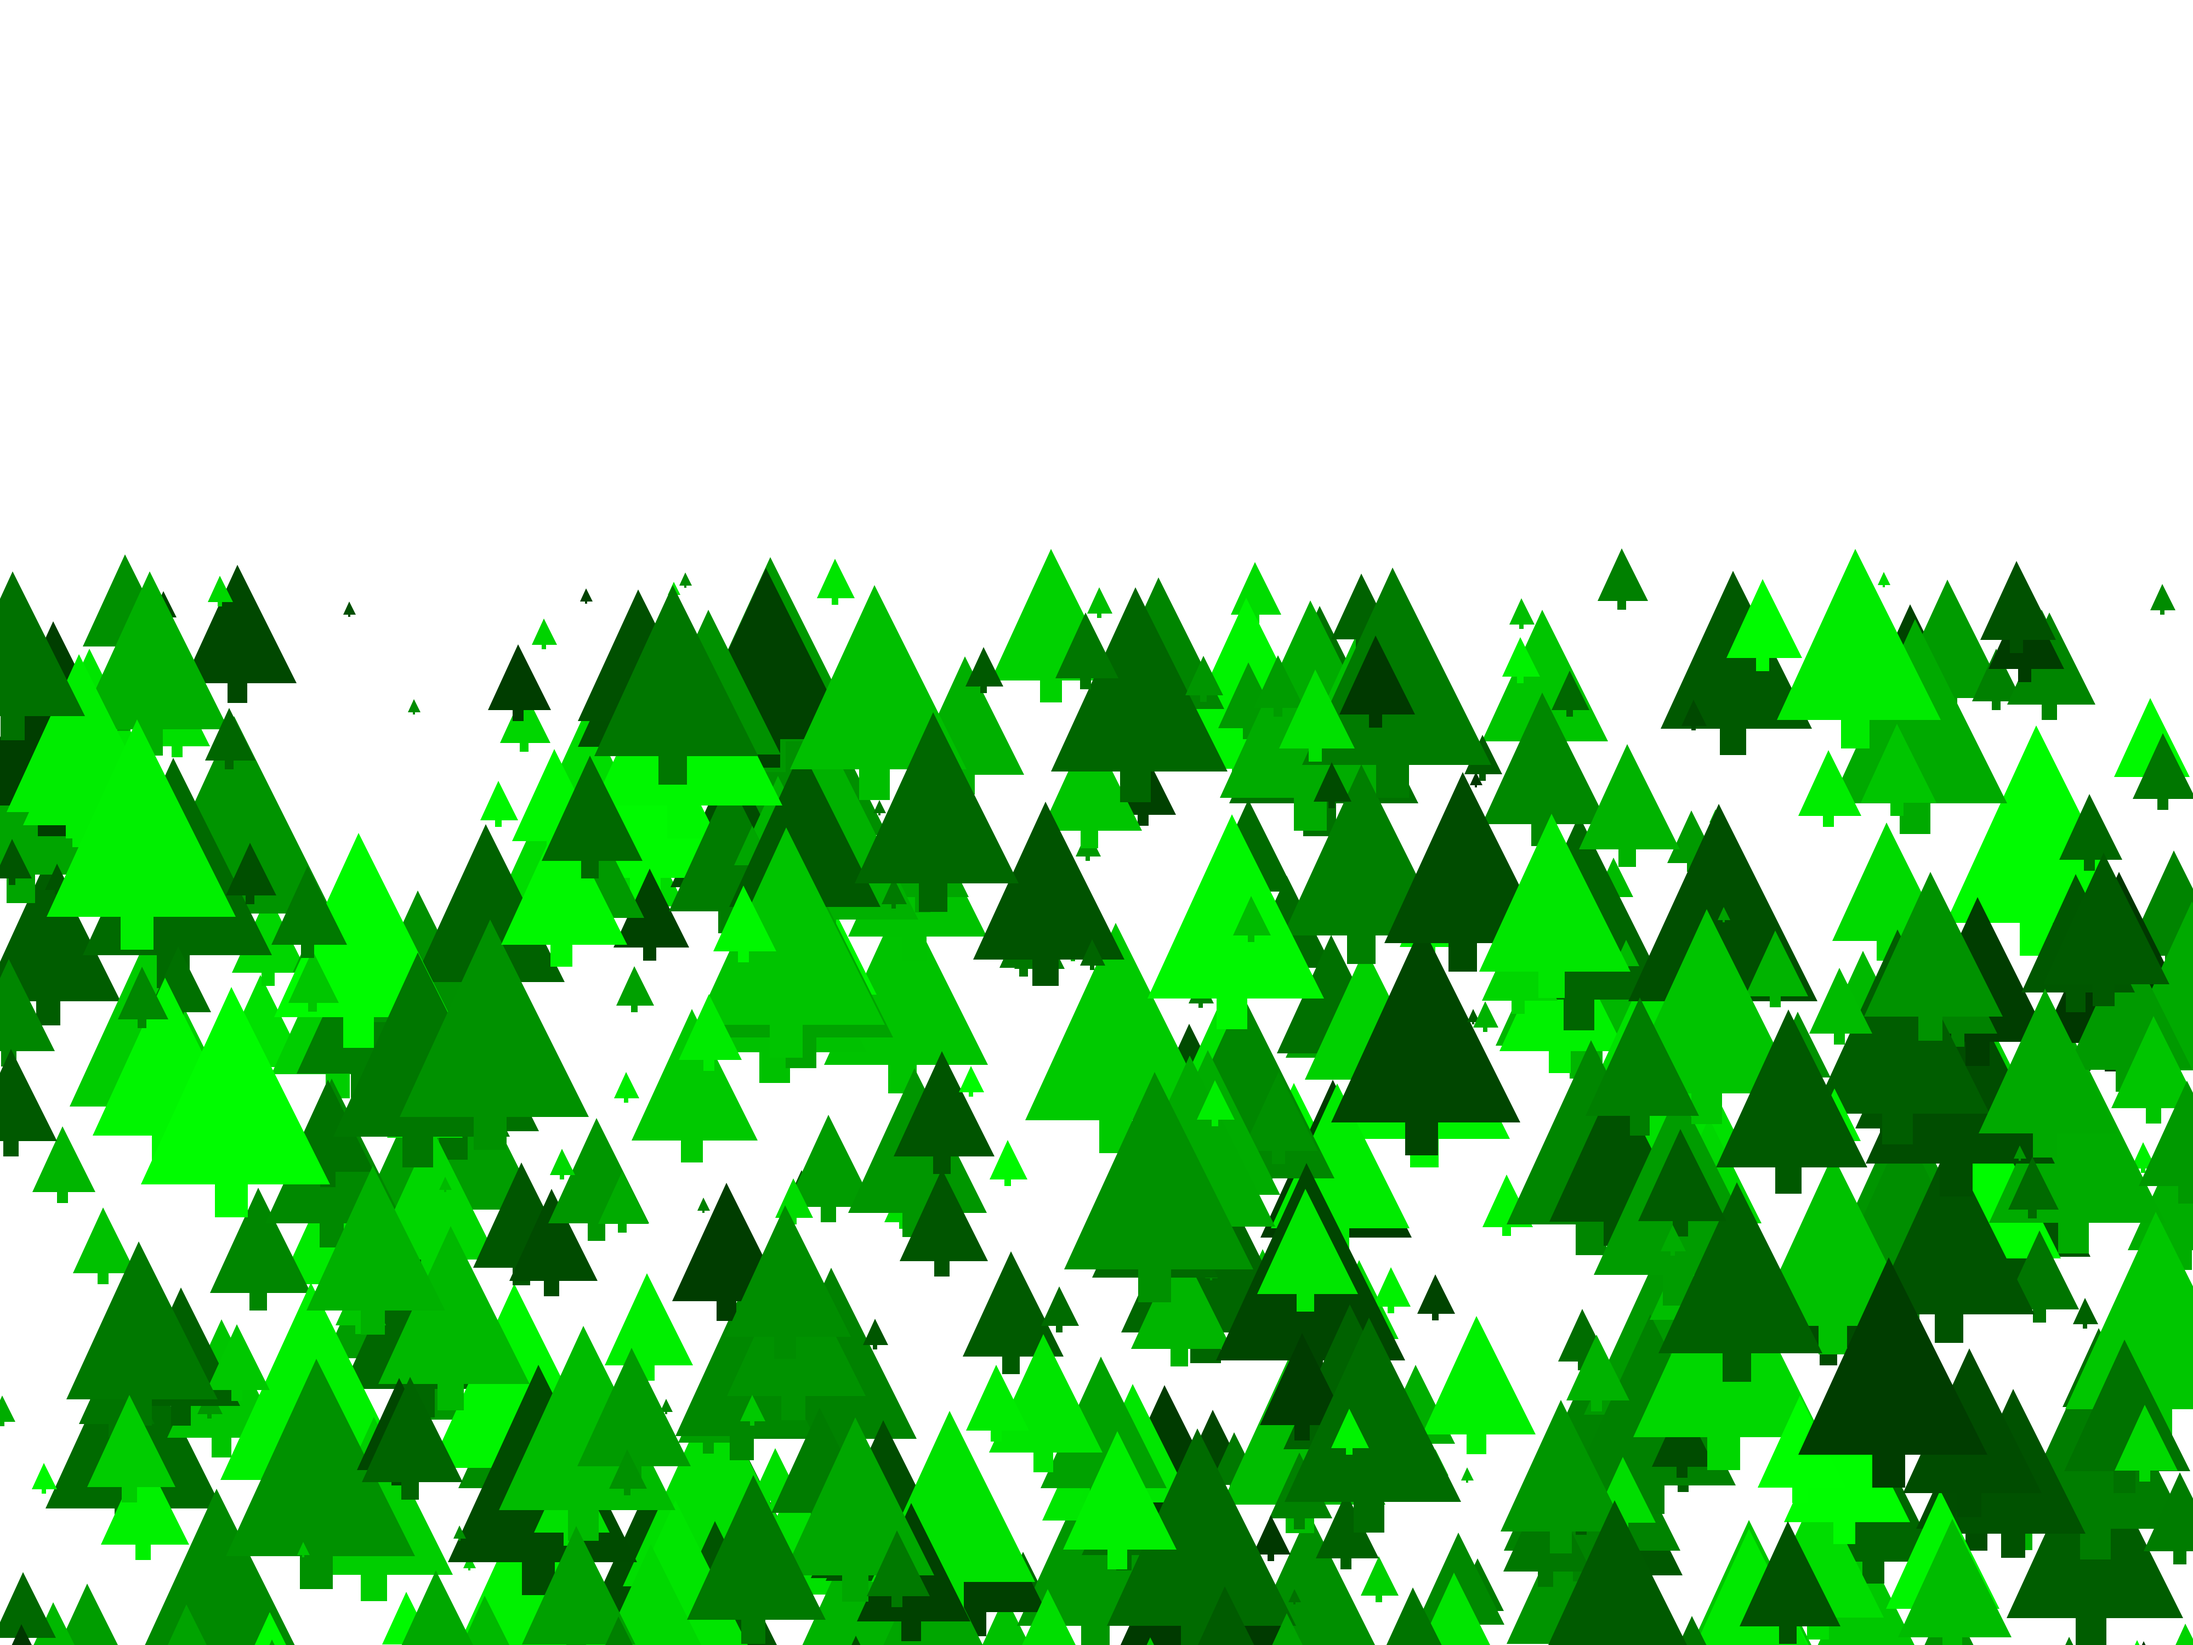
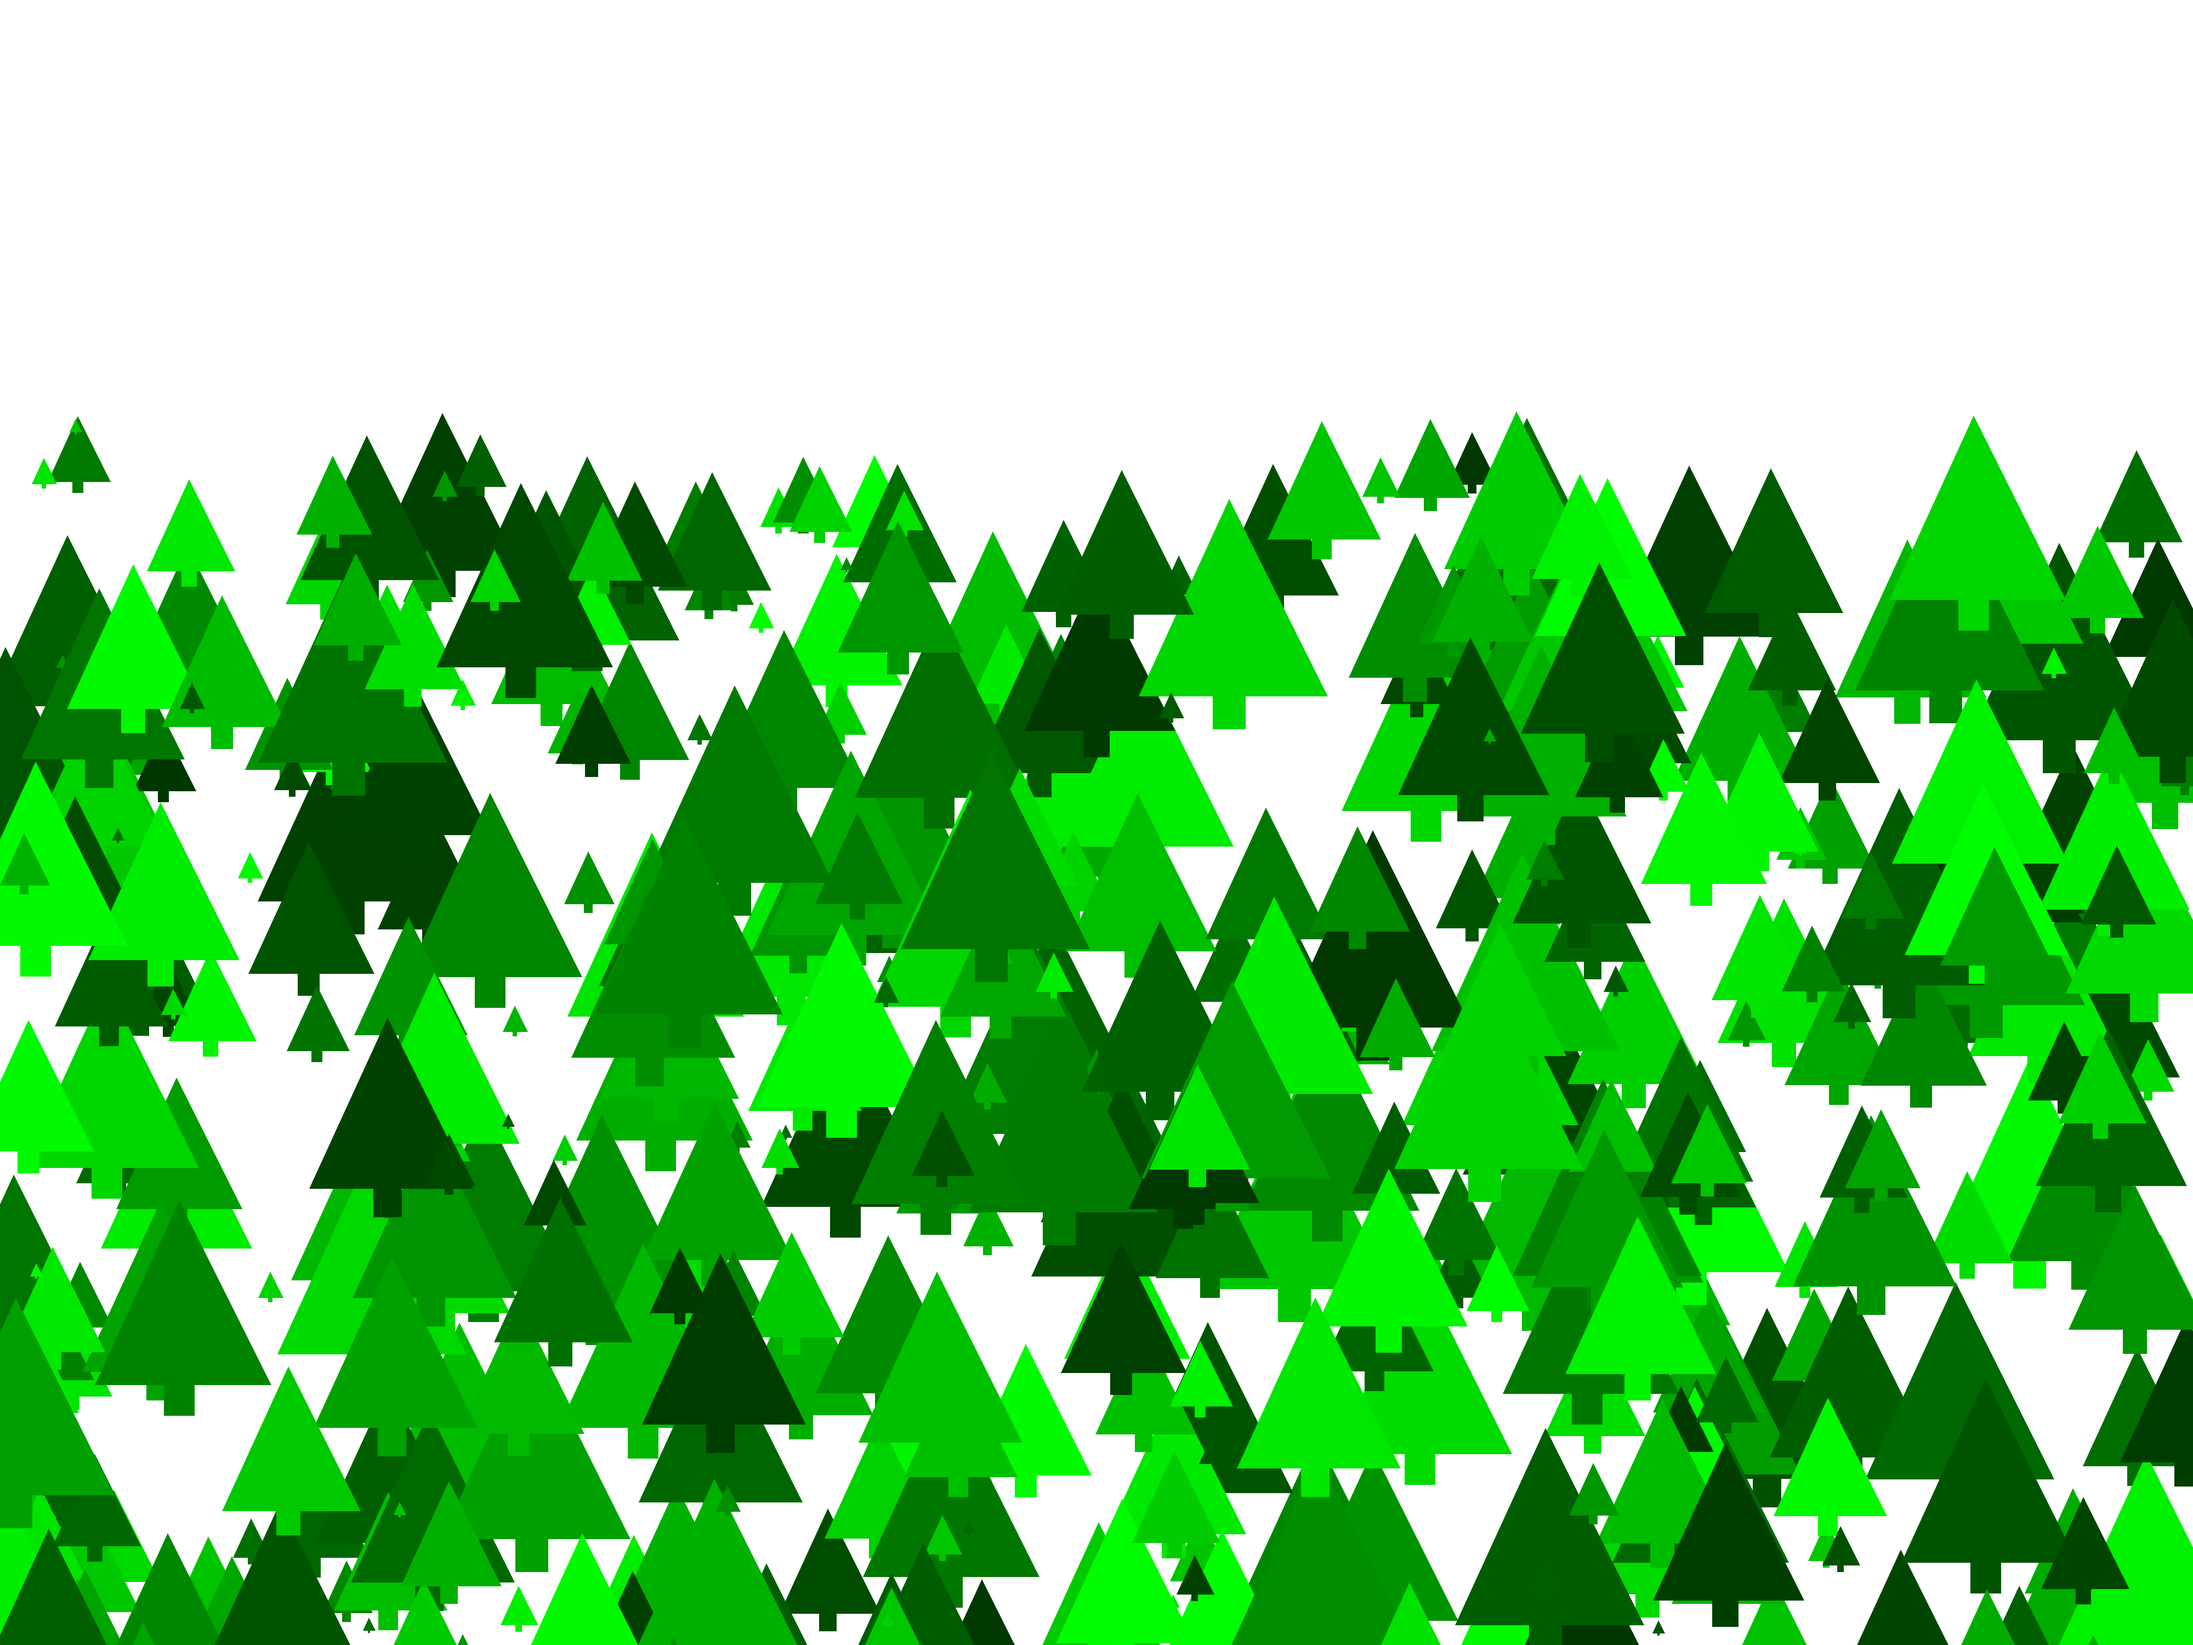
Random forest changes.

diff --git a/src/png_boxes.cc b/src/png_boxes.cc
@@ -249,7 +249,7 @@ void draw_forest(cairo_t *cr, int width, int height){
     for( int x = 0; x < 500; x++ ){
 
         int x_pos = rand() % width;
-        int y_pos = rand() % height * .666 + height / 3;
+        int y_pos = rand() % height * .75 + height / 4;
 
         int scale = rand() % 15 + 1;
         int colour = rand() % 200 + 55 ;
